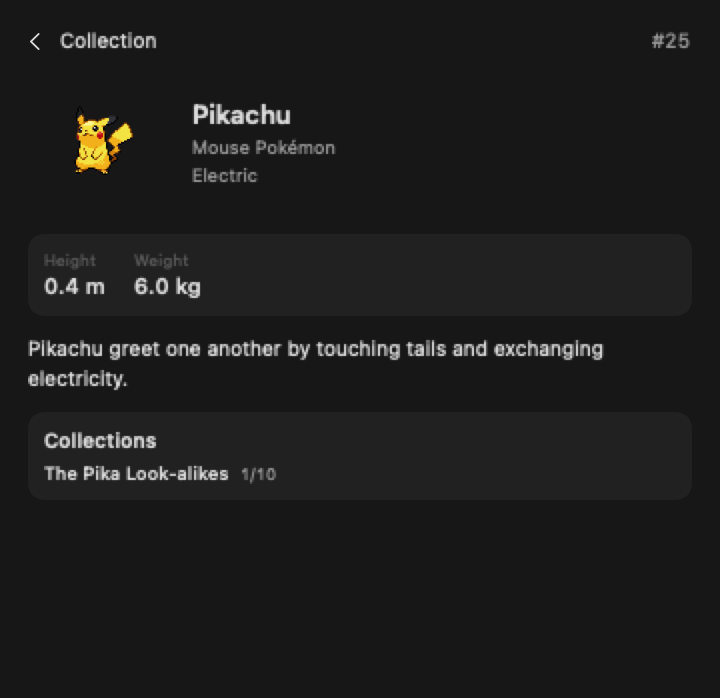
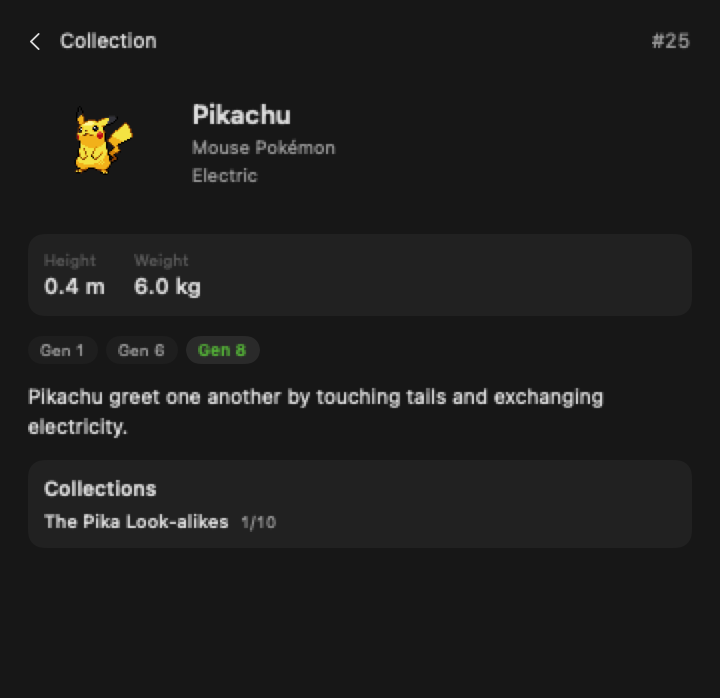
feat: every generation's Dex entry, not just the newest
"Why only one flavor text?" Because the first cut picked each language's
newest entry and threw the rest away. The API carries them all -- twelve
Korean entries for Pikachu alone -- and differing flavor text across
generations is half the fun of the games' Dex.

The profile now stores every ko/en/ja flavor record with its game
version, and a local version-to-generation table (all nine generations)
groups them. The entry screen grows generation chips: tap Gen 1 for
Red/Blue's sentence, Gen 8 for Sword/Shield's, newest selected by
default and reset when switching species.

Chips show only the generations that exist in the UI language. Korean
Dex text begins at Gen 6 (X/Y) -- measured, not assumed -- so a Korean
user sees chips from Gen 6 on rather than English sentences dressed as
earlier generations; a language with no entries at all falls back to
English wholesale. Within a generation the newest version wins
(Ultra Sun over Sun). Unknown future versions map to nil and their
entries quietly wait until the table learns them.

Old disk-cached profiles fail the new decode and simply refetch once.
Mutation-checked: first-version-wins breaks 1 test, dropping the
language filter (English generations bleeding into Korean) breaks 2.

Changed region(s): [[0.0306, 0.4814, 0.8556, 0.7822]]

diff --git a/Tests/PokeDexBarTests/SpeciesProfileTests.swift b/Tests/PokeDexBarTests/SpeciesProfileTests.swift
@@ -25,10 +25,13 @@ final class SpeciesProfileTests: XCTestCase {
         {"genus": "Mouse Pokémon", "language": {"name": "en", "url": null}}
       ],
       "flavor_text_entries": [
-        {"flavor_text": "옛날 문장.", "language": {"name": "ko", "url": null}},
-        {"flavor_text": "Old entry.", "language": {"name": "en", "url": null}},
+        {"flavor_text": "Old entry.", "language": {"name": "en", "url": null},
+         "version": {"name": "red", "url": null}},
+        {"flavor_text": "X 문장.", "language": {"name": "ko", "url": null},
+         "version": {"name": "x", "url": null}},
         {"flavor_text": "서로의 꼬리를 붙여서\\n전기를 흐르게 하는 게\\u000c피카츄 사이의 인사법이다.",
-         "language": {"name": "ko", "url": null}}
+         "language": {"name": "ko", "url": null},
+         "version": {"name": "sword", "url": null}}
       ]
     }
     """.data(using: .utf8)!
@@ -48,25 +51,50 @@ final class SpeciesProfileTests: XCTestCase {
         let species = try JSONDecoder().decode(SpeciesDTO.self, from: speciesJSON)
         XCTAssertEqual(species.genera?.first?.genus, "쥐포켓몬")
         XCTAssertEqual(species.flavor_text_entries?.count, 3)
+        XCTAssertEqual(species.flavor_text_entries?.last?.version?.name, "sword")
         let size = try JSONDecoder().decode(PokemonSizeDTO.self, from: pokemonJSON)
         XCTAssertEqual(size.height, 4)
         XCTAssertEqual(size.weight, 60)
         XCTAssertEqual(size.types.first?.type.name, "electric")
     }
 
-    /// **같은 언어의 마지막 항목**을 고른다 — 배열이 버전 순이라 마지막이 최신 게임 문장이다.
-    /// 제어문자(`\n`·페이지 넘김)는 공백으로 접는다.
-    func testPickTakesTheNewestEntryAndCleansIt() {
-        let entries: [(language: String, text: String)] = [
-            ("ko", "옛날 문장."),
-            ("en", "Old entry."),
-            ("ko", "서로의 꼬리를 붙여서\n전기를 흐르게 하는 게\u{0C}피카츄 사이의 인사법이다."),
-        ]
-        XCTAssertEqual(SpeciesProfile.pick(entries: entries, language: "ko"),
-                       "서로의 꼬리를 붙여서 전기를 흐르게 하는 게 피카츄 사이의 인사법이다.")
-        // 없는 언어는 영어로 떨어진다 — 빈 칸보다 낫다.
-        XCTAssertEqual(SpeciesProfile.pick(entries: entries, language: "ja"), "Old entry.")
-        XCTAssertEqual(SpeciesProfile.pick(entries: [], language: "ko"), "")
+    /// **버전 → 세대 표가 아홉 세대를 다 안다.** 모르는 버전(미래 게임)은 nil —
+    /// 그 항목만 조용히 빠지고 화면은 선다.
+    func testEveryKnownVersionMapsToItsGeneration() {
+        XCTAssertEqual(SpeciesProfile.generation(ofVersion: "red"), 1)
+        XCTAssertEqual(SpeciesProfile.generation(ofVersion: "crystal"), 2)
+        XCTAssertEqual(SpeciesProfile.generation(ofVersion: "firered"), 3)
+        XCTAssertEqual(SpeciesProfile.generation(ofVersion: "soulsilver"), 4)
+        XCTAssertEqual(SpeciesProfile.generation(ofVersion: "black-2"), 5)
+        XCTAssertEqual(SpeciesProfile.generation(ofVersion: "alpha-sapphire"), 6)
+        XCTAssertEqual(SpeciesProfile.generation(ofVersion: "lets-go-eevee"), 7)
+        XCTAssertEqual(SpeciesProfile.generation(ofVersion: "legends-arceus"), 8)
+        XCTAssertEqual(SpeciesProfile.generation(ofVersion: "violet"), 9)
+        XCTAssertNil(SpeciesProfile.generation(ofVersion: "future-game"))
+    }
+
+    /// 세대 목록과 세대별 문장 — 그 언어에 있는 세대만 뜨고(한국어는 6세대부터),
+    /// 세대 안에 버전이 여럿이면 최신 것, 그 언어에 없으면 영어로 떨어진다.
+    func testGenerationsAndPerGenerationFlavor() {
+        let profile = SpeciesProfile(
+            speciesID: 25, nameKo: "피카츄", nameEn: "Pikachu", nameJa: "ピカチュウ",
+            typeSlugs: ["electric"], heightDm: 4, weightHg: 60,
+            genusKo: "쥐포켓몬", genusEn: "Mouse Pokémon", genusJa: "ねずみポケモン",
+            flavors: [
+                FlavorRecord(version: "red", language: "en", text: "Gen1 English."),
+                FlavorRecord(version: "x", language: "ko", text: "X 문장."),
+                FlavorRecord(version: "sun", language: "ko", text: "썬 문장."),
+                FlavorRecord(version: "ultra-sun", language: "ko", text: "울트라썬 문장."),
+            ])
+        // 한국어 — 6·7세대만. 1세대(영어뿐)는 안 뜬다.
+        XCTAssertEqual(profile.flavorGenerations(.ko), [6, 7])
+        // 같은 세대에 버전이 둘이면 마지막(최신) 것.
+        XCTAssertEqual(profile.flavor(.ko, generation: 7), "울트라썬 문장.")
+        XCTAssertEqual(profile.flavor(.ko, generation: 6), "X 문장.")
+        // 일본어는 아예 없다 — 영어의 세대들로 떨어진다.
+        XCTAssertEqual(profile.flavorGenerations(.ja), [1])
+        XCTAssertEqual(profile.flavor(.ja, generation: 1), "Gen1 English.")
+        XCTAssertNil(profile.flavor(.ko, generation: 3), "없는 세대의 문장이 나온다")
     }
 
     /// 키·몸무게는 본가 단위(dm·hg) 그대로 저장하고 표시만 m·kg 로 — 피카츄 0.4 m·6.0 kg.
@@ -75,7 +103,7 @@ final class SpeciesProfileTests: XCTestCase {
             speciesID: 25, nameKo: "피카츄", nameEn: "Pikachu", nameJa: "ピカチュウ",
             typeSlugs: ["electric"], heightDm: 4, weightHg: 60,
             genusKo: "쥐포켓몬", genusEn: "Mouse Pokémon", genusJa: "ねずみポケモン",
-            flavorKo: "", flavorEn: "", flavorJa: "")
+            flavors: [])
         XCTAssertEqual(profile.heightText, "0.4 m")
         XCTAssertEqual(profile.weightText, "6.0 kg")
         XCTAssertEqual(profile.typesText(.ko), "전기")

diff --git a/Sources/PokeDexBar/Core/SpeciesProfile.swift b/Sources/PokeDexBar/Core/SpeciesProfile.swift
@@ -19,10 +19,9 @@ struct SpeciesProfile: Codable, Sendable, Equatable {
     let genusKo: String
     let genusEn: String
     let genusJa: String
-    /// 도감설명 — ko/en/ja. 최신 버전의 항목을 고른다.
-    let flavorKo: String
-    let flavorEn: String
-    let flavorJa: String
+    /// 도감설명 — **버전별 전부**. 처음엔 언어별 최신 한 건만 골라 담았는데, 세대별로 문장이
+    /// 다른 것이 본가 도감의 재미라 전부 싣는다(사용자 지적). API 배열 순서(버전 순)를 보존한다.
+    let flavors: [FlavorRecord]
 
     func name(_ lang: AppLanguage) -> String {
         switch lang { case .ko: nameKo; case .en: nameEn; case .ja: nameJa }
@@ -63,8 +62,49 @@ struct SpeciesProfile: Codable, Sendable, Equatable {
         switch lang { case .ko: genusKo; case .en: genusEn; case .ja: genusJa }
     }
 
-    func flavor(_ lang: AppLanguage) -> String {
-        switch lang { case .ko: flavorKo; case .en: flavorEn; case .ja: flavorJa }
+    private static func code(_ lang: AppLanguage) -> String {
+        switch lang { case .ko: "ko"; case .en: "en"; case .ja: "ja" }
+    }
+
+    /// 이 언어로 도감설명이 있는 세대들(오름차순). 그 언어에 아예 없으면 영어의 세대들 —
+    /// 한국어 도감은 6세대(X/Y)부터라, ko 사용자에게 1~5세대 영어 문장을 섞어 보이는 것보다
+    /// "한국어 도감은 여기부터" 를 정직하게 보이는 쪽을 골랐다.
+    func flavorGenerations(_ lang: AppLanguage) -> [Int] {
+        func gens(_ code: String) -> [Int] {
+            Set(flavors.filter { $0.language == code }
+                .compactMap { Self.generation(ofVersion: $0.version) }).sorted()
+        }
+        let own = gens(Self.code(lang))
+        return own.isEmpty ? gens("en") : own
+    }
+
+    /// 그 세대의 문장 — 세대 안에 여러 버전이 있으면 **마지막 것**(배열이 버전 순이라 최신).
+    /// 요청 언어에 없으면 영어로 떨어진다.
+    func flavor(_ lang: AppLanguage, generation: Int) -> String? {
+        func find(_ code: String) -> String? {
+            flavors.last {
+                $0.language == code && Self.generation(ofVersion: $0.version) == generation
+            }?.text
+        }
+        return find(Self.code(lang)) ?? find("en")
+    }
+
+    /// 게임 버전 → 세대. 모르는 버전(미래 게임)은 nil — 표를 넓히기 전까지 그 항목만 안 보인다.
+    static func generation(ofVersion slug: String) -> Int? {
+        switch slug {
+        case "red", "blue", "yellow": 1
+        case "gold", "silver", "crystal": 2
+        case "ruby", "sapphire", "emerald", "firered", "leafgreen": 3
+        case "diamond", "pearl", "platinum", "heartgold", "soulsilver": 4
+        case "black", "white", "black-2", "white-2": 5
+        case "x", "y", "omega-ruby", "alpha-sapphire": 6
+        case "sun", "moon", "ultra-sun", "ultra-moon",
+             "lets-go-pikachu", "lets-go-eevee": 7
+        case "sword", "shield", "brilliant-diamond", "shining-pearl",
+             "legends-arceus": 8
+        case "scarlet", "violet": 9
+        default: nil
+        }
     }
 
     /// 표시용 키 — "0.4 m". 본가처럼 소수 첫째 자리.
@@ -81,12 +121,11 @@ struct SpeciesProfile: Codable, Sendable, Equatable {
             .trimmingCharacters(in: .whitespacesAndNewlines)
     }
 
-    /// 언어별 최신 항목 고르기 — flavor_text_entries 는 (언어 × 게임 버전) 격자라 같은 언어가
-    /// 여러 번 온다. **마지막 것**을 쓴다: 배열이 버전 순이라 마지막이 최신 게임의 문장이다.
-    /// 그 언어가 아예 없으면(마이너 종의 ja 누락 등) 영어로 떨어진다 — 빈 칸보다 낫다.
-    static func pick(entries: [(language: String, text: String)], language: String) -> String {
-        if let hit = entries.last(where: { $0.language == language }) { return cleaned(hit.text) }
-        if let en = entries.last(where: { $0.language == "en" }) { return cleaned(en.text) }
-        return ""
-    }
+}
+
+/// 도감설명 한 건 — 어느 게임(버전)의, 어느 언어의, 무슨 문장인가.
+struct FlavorRecord: Codable, Sendable, Equatable {
+    let version: String
+    let language: String
+    let text: String
 }

diff --git a/Sources/PokeDexBar/UI/NationalDexView.swift b/Sources/PokeDexBar/UI/NationalDexView.swift
@@ -57,6 +57,8 @@ struct NationalDexView: View {
     @State private var entryProfile: SpeciesProfile?
     @State private var entryFailed = false
     @State private var entryTask: Task<Void, Never>?
+    /// 도감설명에서 보고 있는 세대. nil 이면 그 언어의 최신 세대.
+    @State private var entryGeneration: Int?
 
     // MARK: 미션
 
@@ -313,6 +315,7 @@ struct NationalDexView: View {
     private func openEntry(_ speciesID: Int) {
         entryProfile = nil
         entryFailed = false
+        entryGeneration = nil   // 종을 바꾸면 그 종의 최신 세대부터
         entrySpeciesID = speciesID
         entryTask?.cancel()
         // 미등록 종은 정보를 가리므로 요청도 안 보낸다 — 실루엣에 도감설명을 붙일 일이 없다.
@@ -439,10 +442,35 @@ struct NationalDexView: View {
             }
             .padding(8)
             .background(Color.secondary.opacity(0.08), in: RoundedRectangle(cornerRadius: 8))
-            Text(profile.flavor(store.language))
-                .font(.system(size: 10))
-                .lineSpacing(2)
-                .fixedSize(horizontal: false, vertical: true)
+            // **세대별 도감설명** — 세대마다 문장이 다른 것이 본가 도감의 재미라 전부 싣는다
+            // (처음엔 최신 한 건만 골랐다가 사용자 지적으로 바꿨다). 한국어는 6세대(X/Y)부터
+            // 존재하므로 ko 사용자에게는 6~9세대 칩이 뜬다 — 없는 세대를 영어로 채우기보다
+            // "한국어 도감은 여기부터" 를 정직하게 보인다.
+            let generations = profile.flavorGenerations(store.language)
+            if !generations.isEmpty {
+                let shown = entryGeneration.flatMap { generations.contains($0) ? $0 : nil }
+                    ?? generations.last!
+                HStack(spacing: 4) {
+                    ForEach(generations, id: \.self) { generation in
+                        Button(l.generationLabel(generation)) {
+                            entryGeneration = generation
+                        }
+                        .buttonStyle(.plain)
+                        .font(.system(size: 8, weight: shown == generation ? .bold : .regular))
+                        .foregroundStyle(shown == generation
+                                         ? AnyShapeStyle(Color.accentColor)
+                                         : AnyShapeStyle(.secondary))
+                        .padding(.horizontal, 6).padding(.vertical, 2)
+                        .background(Color.secondary.opacity(shown == generation ? 0.15 : 0.06),
+                                    in: Capsule())
+                    }
+                    Spacer()
+                }
+                Text(profile.flavor(store.language, generation: shown) ?? "")
+                    .font(.system(size: 10))
+                    .lineSpacing(2)
+                    .fixedSize(horizontal: false, vertical: true)
+            }
         } else if entryFailed {
             Text(l.dexEntryUnavailable).font(.system(size: 9)).foregroundStyle(.orange)
         } else {

diff --git a/Sources/PokeDexBar/Core/PokeAPIClient.swift b/Sources/PokeDexBar/Core/PokeAPIClient.swift
@@ -266,7 +266,13 @@ actor PokeAPIClient: PokeProviding {
         }
         let dto = try await species(id)
         let size: PokemonSizeDTO = try await get(base.appendingPathComponent("pokemon/\(id)"))
-        let flavors = (dto.flavor_text_entries ?? []).map { ($0.language.name, $0.flavor_text) }
+        // ko/en/ja 만 담는다 — 다른 언어까지 실으면 프로필 캐시가 열 배로 는다.
+        let flavors = (dto.flavor_text_entries ?? []).compactMap { entry -> FlavorRecord? in
+            guard ["ko", "en", "ja"].contains(entry.language.name),
+                  let version = entry.version?.name else { return nil }
+            return FlavorRecord(version: version, language: entry.language.name,
+                                text: SpeciesProfile.cleaned(entry.flavor_text))
+        }
         func genus(_ lang: String) -> String {
             (dto.genera ?? []).first(where: { $0.language.name == lang })?.genus
                 ?? (dto.genera ?? []).first(where: { $0.language.name == "en" })?.genus ?? ""
@@ -281,9 +287,7 @@ actor PokeAPIClient: PokeProviding {
             typeSlugs: size.types.sorted { $0.slot < $1.slot }.map(\.type.name),
             heightDm: size.height, weightHg: size.weight,
             genusKo: genus("ko"), genusEn: genus("en"), genusJa: genus("ja"),
-            flavorKo: SpeciesProfile.pick(entries: flavors, language: "ko"),
-            flavorEn: SpeciesProfile.pick(entries: flavors, language: "en"),
-            flavorJa: SpeciesProfile.pick(entries: flavors, language: "ja"))
+            flavors: flavors)
         profileCache[id] = profile
         if let data = try? JSONEncoder().encode(profile) {
             try? data.write(to: Self.profileURL(id: id))
@@ -370,7 +374,11 @@ struct SpeciesDTO: Decodable, Sendable {
     /// 분류("쥐포켓몬") — 언어별.
     let genera: [GenusDTO]?
 }
-struct FlavorDTO: Decodable, Sendable { let flavor_text: String; let language: NamedRef }
+struct FlavorDTO: Decodable, Sendable {
+    let flavor_text: String
+    let language: NamedRef
+    let version: NamedRef?
+}
 struct GenusDTO: Decodable, Sendable { let genus: String; let language: NamedRef }
 /// `pokemon/{id}` 에서 키·몸무게·타입만 — 나머지 필드(수백 줄)는 안 읽는다.
 struct PokemonSizeDTO: Decodable, Sendable {

diff --git a/Tests/PokeDexBarTests/ScreenshotGenerator.swift b/Tests/PokeDexBarTests/ScreenshotGenerator.swift
@@ -932,9 +932,18 @@ final class ScreenshotGeneratorTests: XCTestCase {
             speciesID: 25, nameKo: "피카츄", nameEn: "Pikachu", nameJa: "ピカチュウ",
             typeSlugs: ["electric"], heightDm: 4, weightHg: 60,
             genusKo: "쥐포켓몬", genusEn: "Mouse Pokémon", genusJa: "ねずみポケモン",
-            flavorKo: "서로의 꼬리를 붙여서 전기를 흐르게 하는 게 피카츄 사이의 인사법이다.",
-            flavorEn: "Pikachu greet one another by touching tails and exchanging electricity.",
-            flavorJa: "しっぽを あわせて でんきを ながしあうのが ピカチュウどうしの あいさつだ。")
+            flavors: [
+                FlavorRecord(version: "red", language: "en",
+                             text: "When several of these POKeMON gather, their electricity could build and cause lightning storms."),
+                FlavorRecord(version: "x", language: "en",
+                             text: "It occasionally uses an electric shock to recharge a fellow Pikachu that is in a weakened state."),
+                FlavorRecord(version: "x", language: "ko",
+                             text: "약해진 동료 피카츄에게 전기를 나눠주며 충전해 주기도 한다."),
+                FlavorRecord(version: "sword", language: "en",
+                             text: "Pikachu greet one another by touching tails and exchanging electricity."),
+                FlavorRecord(version: "sword", language: "ko",
+                             text: "서로의 꼬리를 붙여서 전기를 흐르게 하는 게 피카츄 사이의 인사법이다."),
+            ])
         try write(png(tabChrome(NationalDexView(store: fixture.player,
                                                 entrySpeciesID: 25,
                                                 entryProfile: pikachuProfile))),
